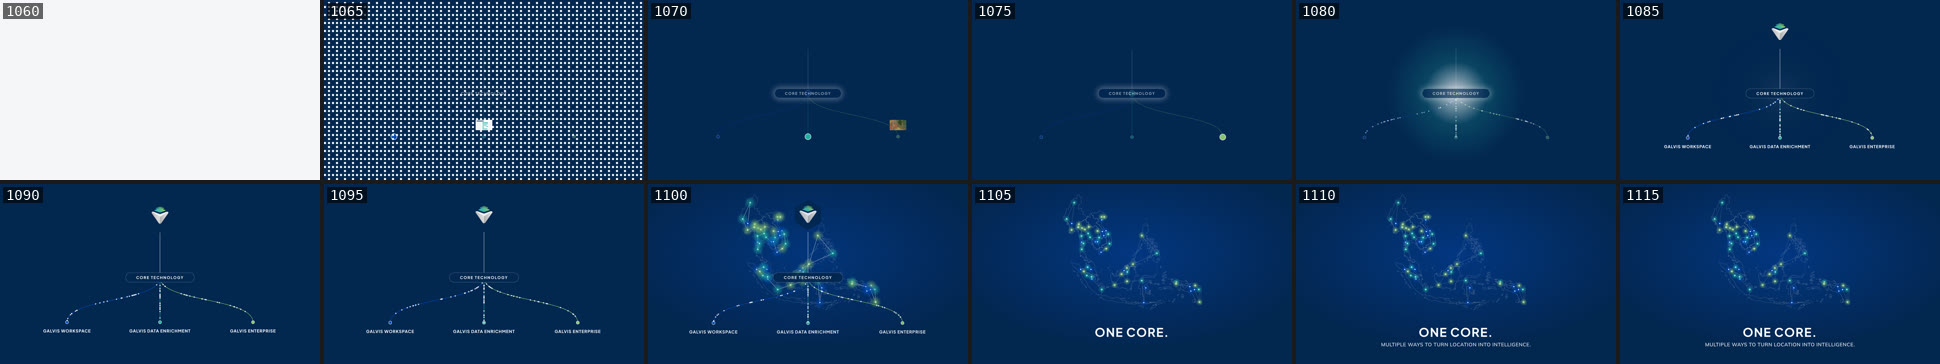
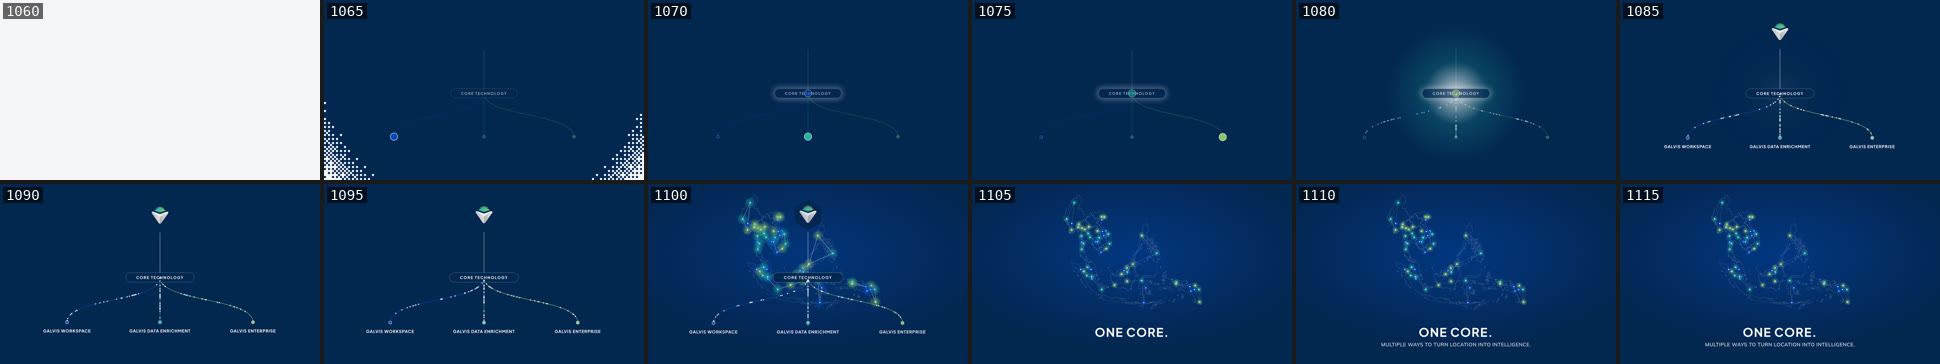
fix(galvis-film): jury round 1 — act 09
The navy opens radially from the core; the rooms pop over the light frame (curtain moved under them,
pops start from nothing so 106.0 still matches). Each badge climbs as a 44 px comet with a tail in its
product colour. Second-line box refitted.

Claude-Session: https://claude.ai/code/session_0187RN5xC2Ne3Dptw6LeZ6Ei

Changed region(s): [[0.1546, 0.0, 0.3402, 0.5137], [0.433, 0.3324, 0.4639, 0.3626]]

diff --git a/projects/galvis-launch-film/compositions/09-reunify.html b/projects/galvis-launch-film/compositions/09-reunify.html
@@ -39,14 +39,15 @@
         <div id="act09-reunify-chord"></div>
         <div id="act09-reunify-diagram">
           <svg id="act09-reunify-net" viewBox="0 0 1920 1080"></svg>
-          <canvas id="act09-reunify-dots" width="1920" height="1080"></canvas>
           <div id="act09-reunify-mark"></div>
           <div id="act09-reunify-core"></div>
           <div id="act09-reunify-products"></div>
+          <!-- The curtain covers the diagram but not the rooms: they pop over the light frame act 08 left. -->
+          <canvas id="act09-reunify-curtain" width="1920" height="1080"></canvas>
+          <canvas id="act09-reunify-dots" width="1920" height="1080"></canvas>
         </div>
         <div id="act09-reunify-one"></div>
         <div id="act09-reunify-many"></div>
-        <canvas id="act09-reunify-curtain" width="1920" height="1080"></canvas>
       </div>
       <script>
         GV.register('act09-reunify', async (tl) => {
@@ -58,7 +59,7 @@
           $('core').textContent = GV.COPY['core.label'];
 
           // Bar 54 opens on the light frame act 08 left, and a navy Bayer curtain closes over it.
-          const curtain = GV.mountCurtain($('curtain'), '#F5F6F8');
+          const curtain = GV.mountCurtain($('curtain'), '#F5F6F8', 12, { origin: [960, 300] }); // opens from the core
 
           // The architecture, with the same geometry as the split in act 05.
           const SPLIT = [960, 560];
@@ -116,7 +117,7 @@
             }),
           ];
           const expoOut = (k) => (k >= 1 ? 1 : 1 - Math.pow(2, -10 * k));
-          const ROOM = { w: 168, h: 104, r: 8 }, BADGE = { w: 36, h: 36, r: 18 };
+          const ROOM = { w: 168, h: 104, r: 8 }, BADGE = { w: 44, h: 44, r: 22 };
           const rnd5 = GV.seeded(11);
           const risers = branches.flatMap((_, i) => Array.from({ length: 24 }, () => ({ i, phase: rnd5(), speed: 0.25 + rnd5() * 0.2 })));
           const drawDots = (t) => {
@@ -127,10 +128,23 @@
               const pop = expoOut(u / 0.2), fold = GV.since(u, 0.25, 0.25), climb = GV.since(u, 0.5, TRAVEL - 0.5, (k) => k * k * (3 - 2 * k));
               const pt = p.getPointAtLength(lengths[i] * (1 - climb));
               const box = GV.lerpRect({ x: 0, y: 0, ...ROOM }, { x: 0, y: 0, ...BADGE }, fold);
-              const sc = 0.6 + 0.4 * pop;
+              const sc = pop * (0.6 + 0.4 * pop); // from nothing, so 106.0 still matches act 08's last frame
               const w = box.w * sc, h = box.h * sc;
               const cx = pt.x, cy = pt.y - (1 - climb) * 70 * (1 - fold);
               dctx.globalAlpha = u > TRAVEL ? 1 - (u - TRAVEL) / 0.2 : 1;
+              // A comet tail in the product colour (up to 160 px of branch behind the badge) while it climbs.
+              if (climb > 0 && climb < 1) {
+                const tail = Math.min(160, lengths[i] * (1 - climb)), from = lengths[i] * (1 - climb);
+                for (let s = 0; s < 16; s++) {
+                  const a = p.getPointAtLength(from + (tail * s) / 16), b = p.getPointAtLength(from + (tail * (s + 1)) / 16);
+                  dctx.strokeStyle = PRODUCTS[i][1];
+                  dctx.globalAlpha = (1 - s / 16) * 0.9 * Math.min(1, climb * 8);
+                  dctx.lineWidth = 10 * (1 - s / 16);
+                  dctx.lineCap = 'round';
+                  dctx.beginPath(); dctx.moveTo(a.x, a.y); dctx.lineTo(b.x, b.y); dctx.stroke();
+                }
+                dctx.globalAlpha = u > TRAVEL ? 1 - (u - TRAVEL) / 0.2 : 1;
+              }
               dctx.save();
               dctx.beginPath(); dctx.roundRect(cx - w / 2, cy - h / 2, w, h, box.r * sc); dctx.clip();
               dctx.globalAlpha *= 1 - fold;

diff --git a/projects/galvis-launch-film/shared/gv.js b/projects/galvis-launch-film/shared/gv.js
@@ -397,7 +397,7 @@ var GV = (() => {
       { t: 108, act: "act09-reunify", what: "architecture complete (full chord)", box: [560, 300, 800, 560] },
       { t: 110, act: "act09-reunify", what: "map network lights up", box: [550, 170, 600, 400] },
       { t: 110.25, act: "act09-reunify", what: "ONE CORE.", box: [740, 845, 440, 80] },
-      { t: 110.75, act: "act09-reunify", what: "second line", box: [460, 946, 1e3, 36] },
+      { t: 110.75, act: "act09-reunify", what: "second line", box: [516, 960, 876, 24] },
       { t: 112, act: "act10-final", what: "sting", box: [0, 0, 1920, 1080] },
       { t: 113, act: "act10-final", what: "full name", box: [640, 380, 640, 32] },
       { t: 114, act: "act10-final", what: "FROM LOCATION", box: [560, 470, 800, 64] },
